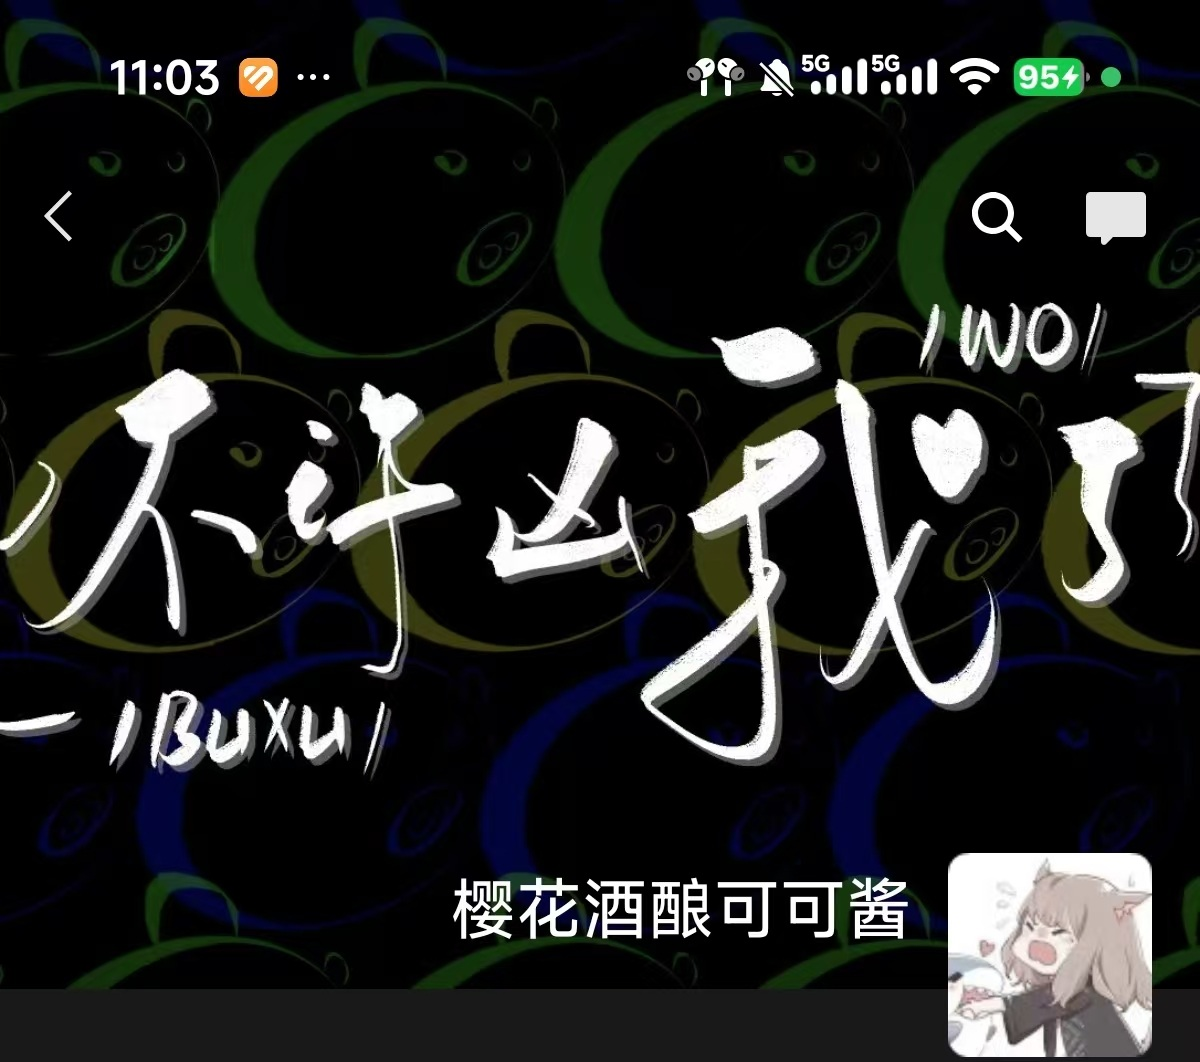
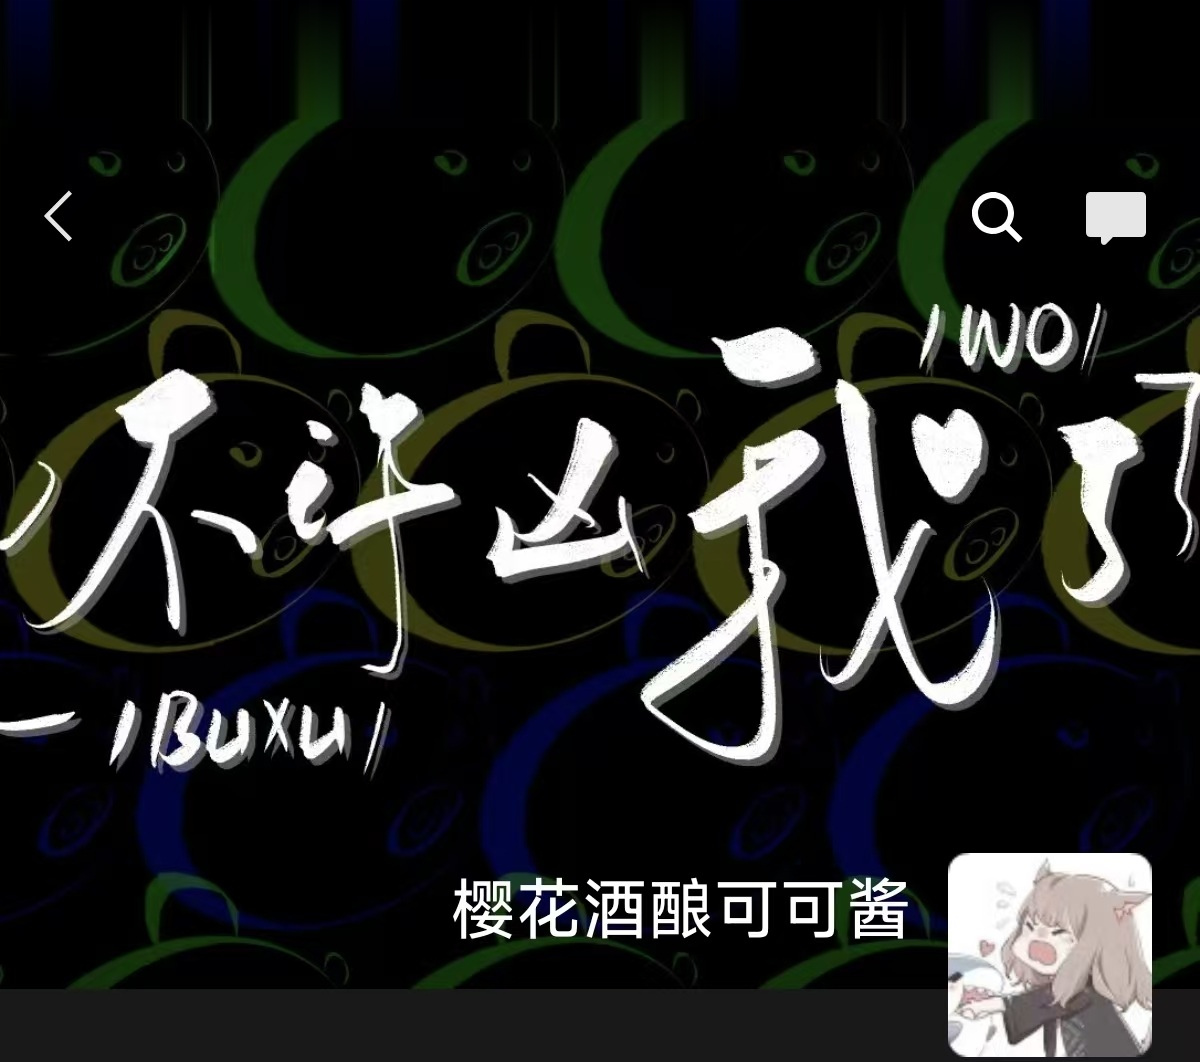
去掉顶部状态栏与左侧残留卡片贴图

Changed region(s): [[0.5242, 0.0, 1.0, 0.1243], [0.0, 0.0, 0.4317, 0.1243]]

diff --git a/index.html b/index.html
@@ -54,7 +54,6 @@
   .a-cam       { left:20.67%; top:66.87%;  width:22.67%; }
   .a-post1     { left:15.42%; top:78.91%;  width:80%;    }
   .a-post2     { left:16.25%; top:89.65%;  width:78.33%; }
-  .a-left      { left:0;      top:75.767%; width:4%;    }
   .a-bottom    { left:0;      top:97.470%; width:100%;  }
 
   .gesture{
@@ -160,7 +159,6 @@
       <img class="a-cam"    src="assets/p1_cam.jpg"    alt="">
       <img class="a-post1"  src="assets/p1_post1.jpg"  alt="">
       <img class="a-post2"  src="assets/p1_post2.jpg"  alt="">
-      <img class="a-left"    src="assets/p1_left.jpg"    alt="">
       <img class="a-bottom"  src="assets/p1_bottom.jpg"  alt="">
 
       <!-- 99赞 → 详情页 -->
